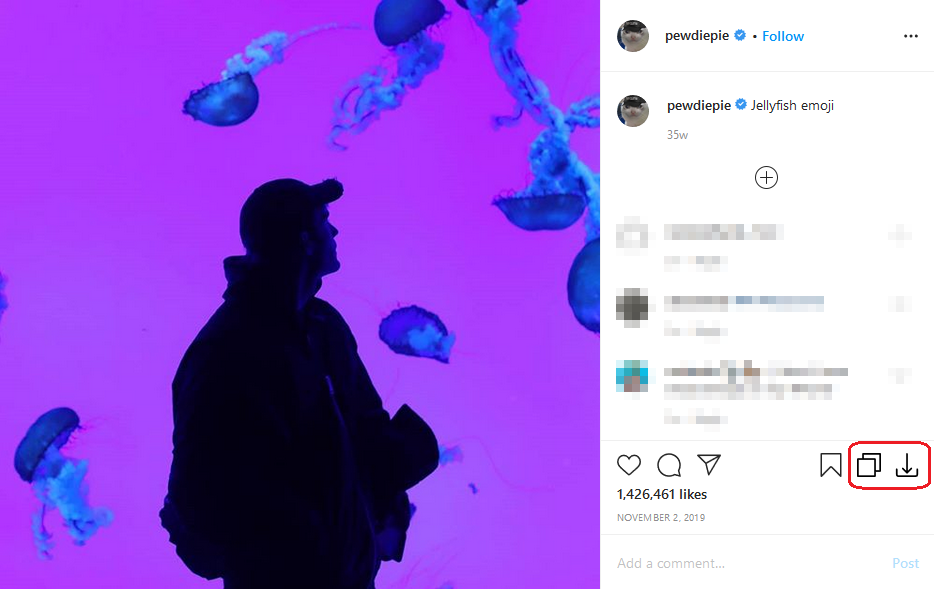
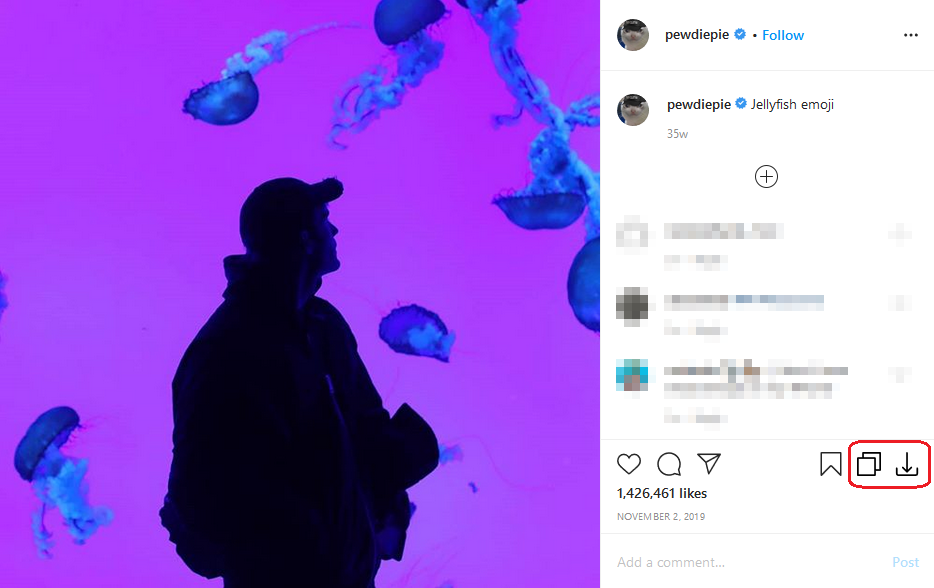
updated readme and description

diff --git a/userscript.js b/userscript.js
@@ -3,8 +3,8 @@
 // @name:zh-TW          Instagram 下載器
 // @namespace           https://github.com/y252328/Instagram_Download_Button
 // @version             1.2.0
-// @description         Add download button to download media in the posts, stories and highlights in Instagram
-// @description:zh-TW   在Instagram頁面加入下載按鈕，透過此按鈕可以下載貼文、限時動態及Highlight
+// @description         Add download button and open button to download or open media in the posts, stories and highlights in Instagram
+// @description:zh-TW   在Instagram頁面加入下載按鈕與開啟按鈕，透過這些按鈕可以下載或開啟貼文、限時動態及Highlight
 // @author              ZhiYu
 // @match               https://www.instagram.com/*
 // @grant               none

diff --git a/README.md b/README.md
@@ -1,6 +1,12 @@
-# [Instagram Download Button](https://github.com/y252328/Instagram_Download_Button)
-This repository is a Javascript for Greasemonkey/Tampermonkey. This script will add a download button to your Instagram and you can download media in the posts, stories and highlights by one click.
+# Instagram Download Button
+[Github](https://github.com/y252328/Instagram_Download_Button), [Greasy Fork](https://greasyfork.org/zh-TW/scripts/406535-instagram-download-button) \
+This repository is a Javascript for Greasemonkey/Tampermonkey. This script will add a download button and open button to your Instagram and you can download or open media in the posts, stories and highlights by one click.
+
+> Note: This script only test on Google Chrome/Firefox with Tampermonkey and only support zh-tw and en version Instagram currently.
+
+<img src="img/post.png" alt="drawing" width="467" height="294"/>
+<br/>
+<img src="img/story&highlight.png" alt="drawing" width="216" height="376"/>
 
 # License
 [MIT](https://github.com/y252328/Instagram_Download_Button/blob/master/LICENSE)
-> Note: This script only test on Google Chrome/Firefox with Tampermonkey and only support zh-tw and en version Instagram currently.

diff --git a/README_zh-tw.md b/README_zh-tw.md
@@ -1,6 +1,12 @@
-# [Instagram Download Button](https://github.com/y252328/Instagram_Download_Button)
-此腳本會在Instagram頁面上新增下載按鈕，透過此按鈕可以下載貼文、限時動態及Highlight
+# Instagram Download Button
+[Github](https://github.com/y252328/Instagram_Download_Button), [Greasy Fork](https://greasyfork.org/zh-TW/scripts/406535-instagram-download-button) \
+此腳本會在Instagram頁面上新增下載按鈕與開啟按鈕，透過這些按鈕可以下載或開啟貼文、限時動態及Highlight
+
+> Note: 目前此腳本只在Google Chrome/Firefox Tampermonkey上測試過，且只適用英文與繁體中文版的Instagram
+
+<img src="img/post.png" alt="drawing" width="467" height="294"/>
+<br/>
+<img src="img/story&highlight.png" alt="drawing" width="216" height="376"/>
 
 # License
 [MIT](https://github.com/y252328/Instagram_Download_Button/blob/master/LICENSE)
-> Note: 目前此腳本只在Google Chrome/Firefox Tampermonkey上測試過，且目前只適用英文與繁體中文版的Instagram
